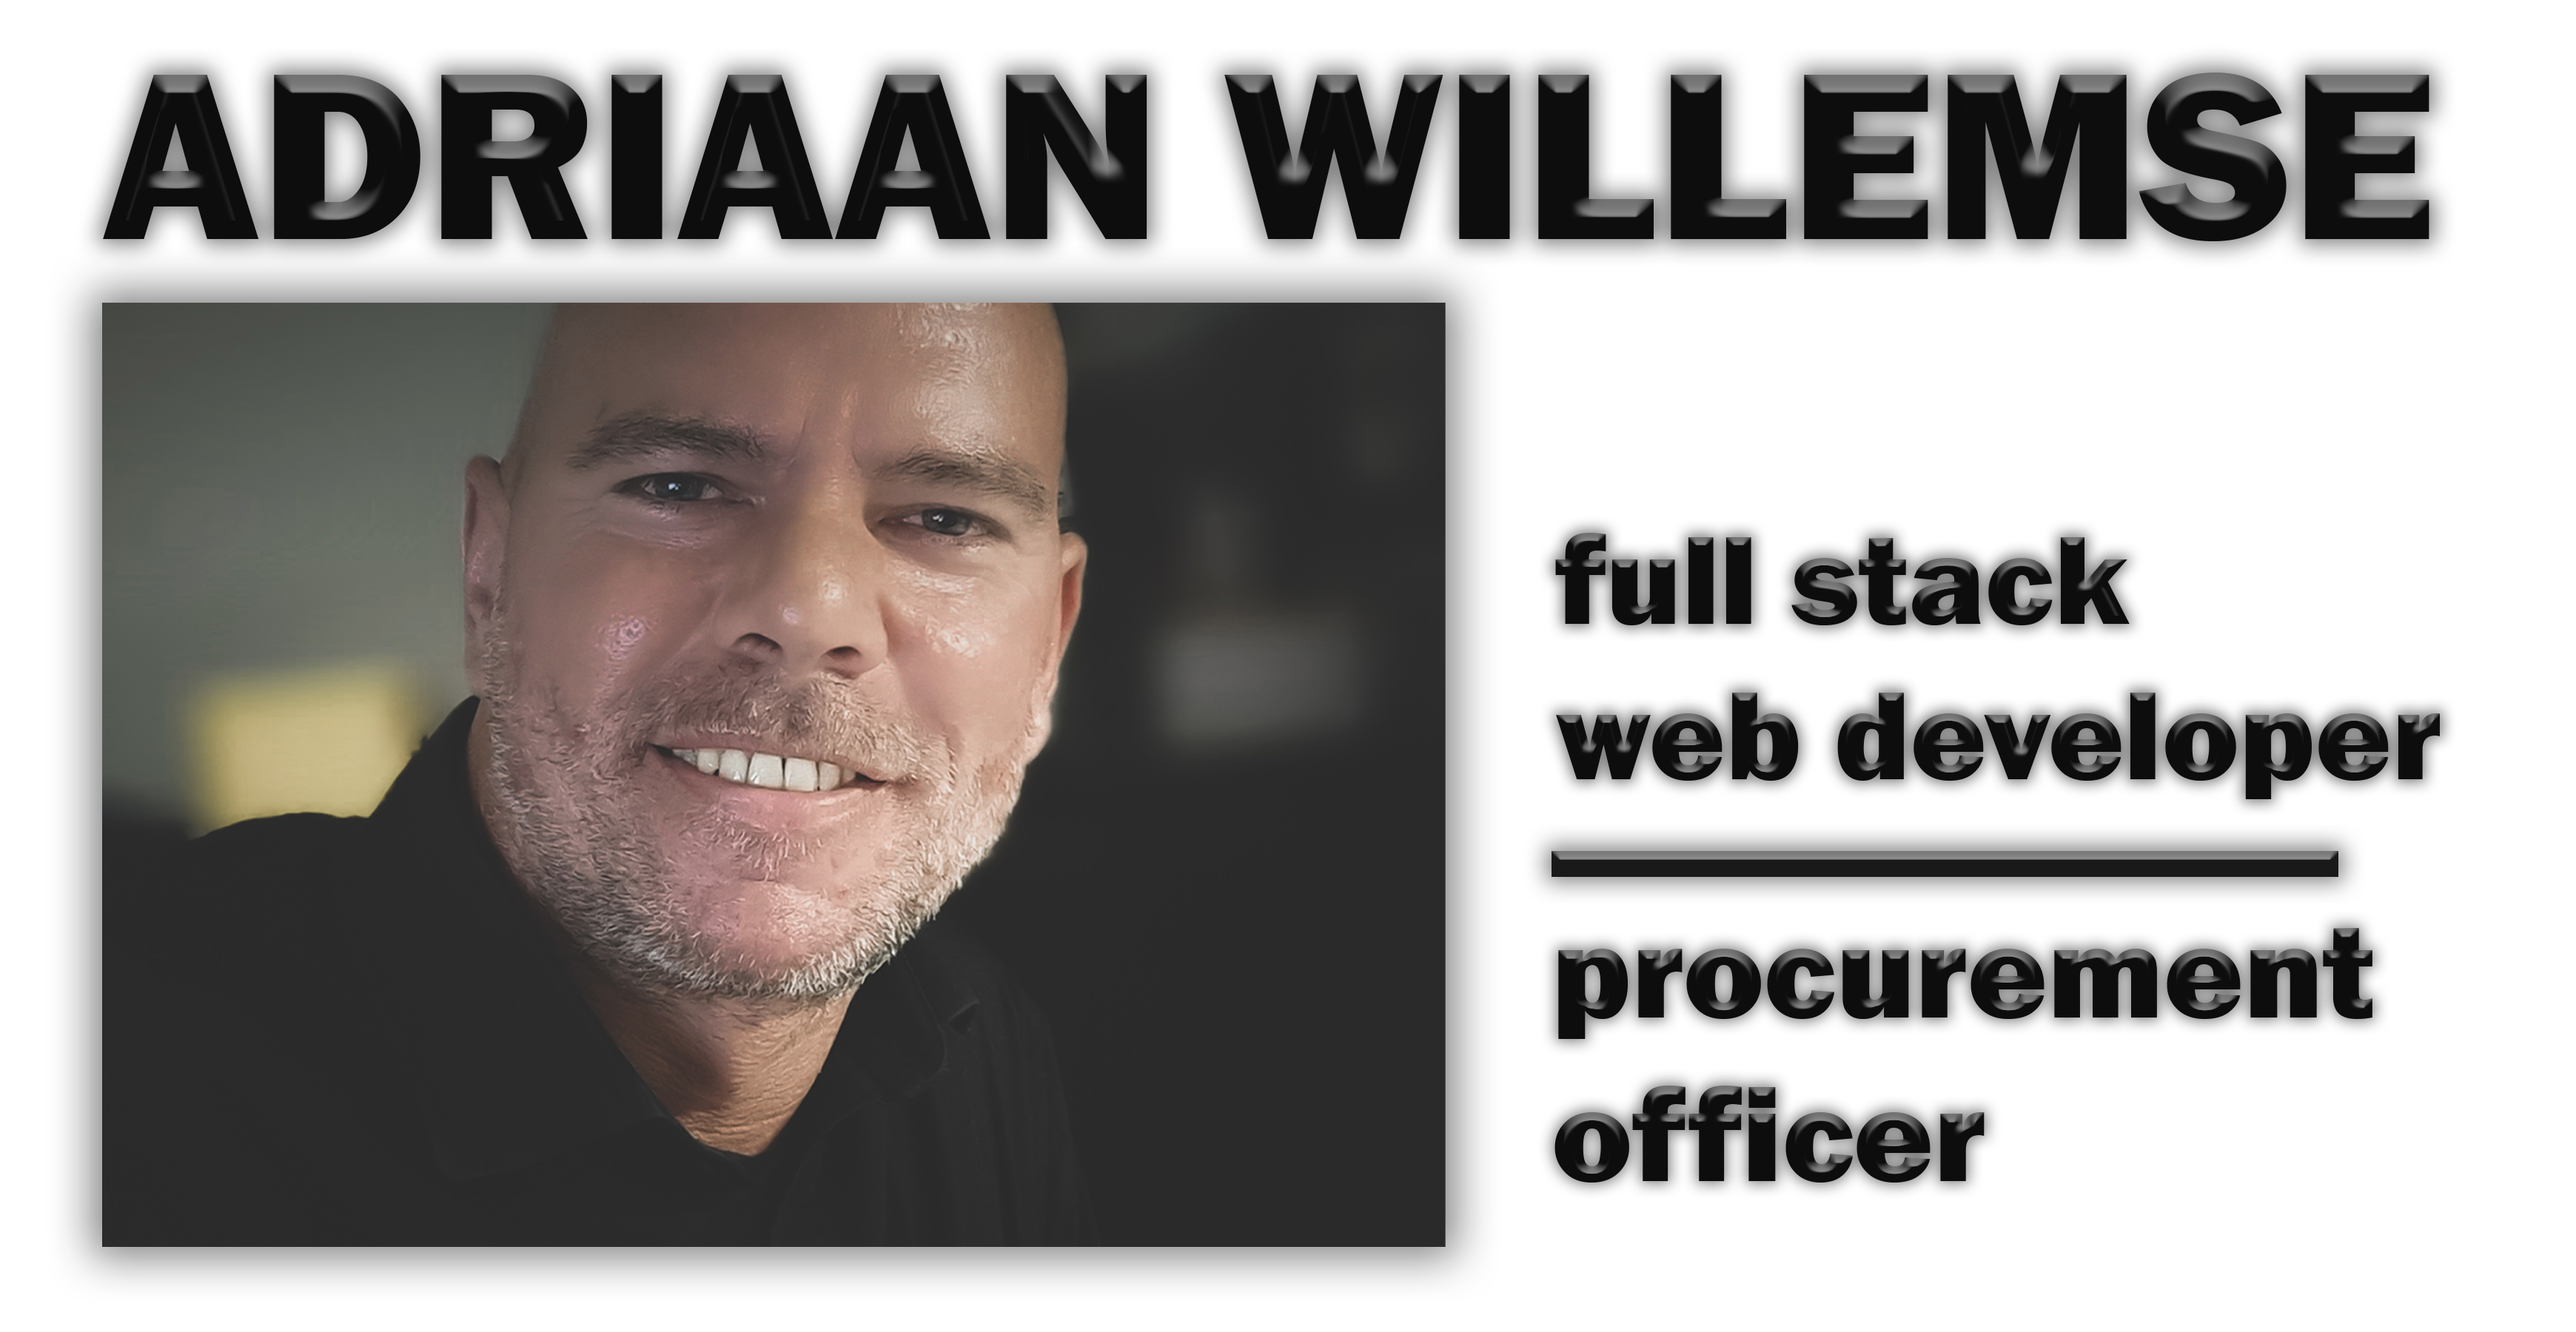
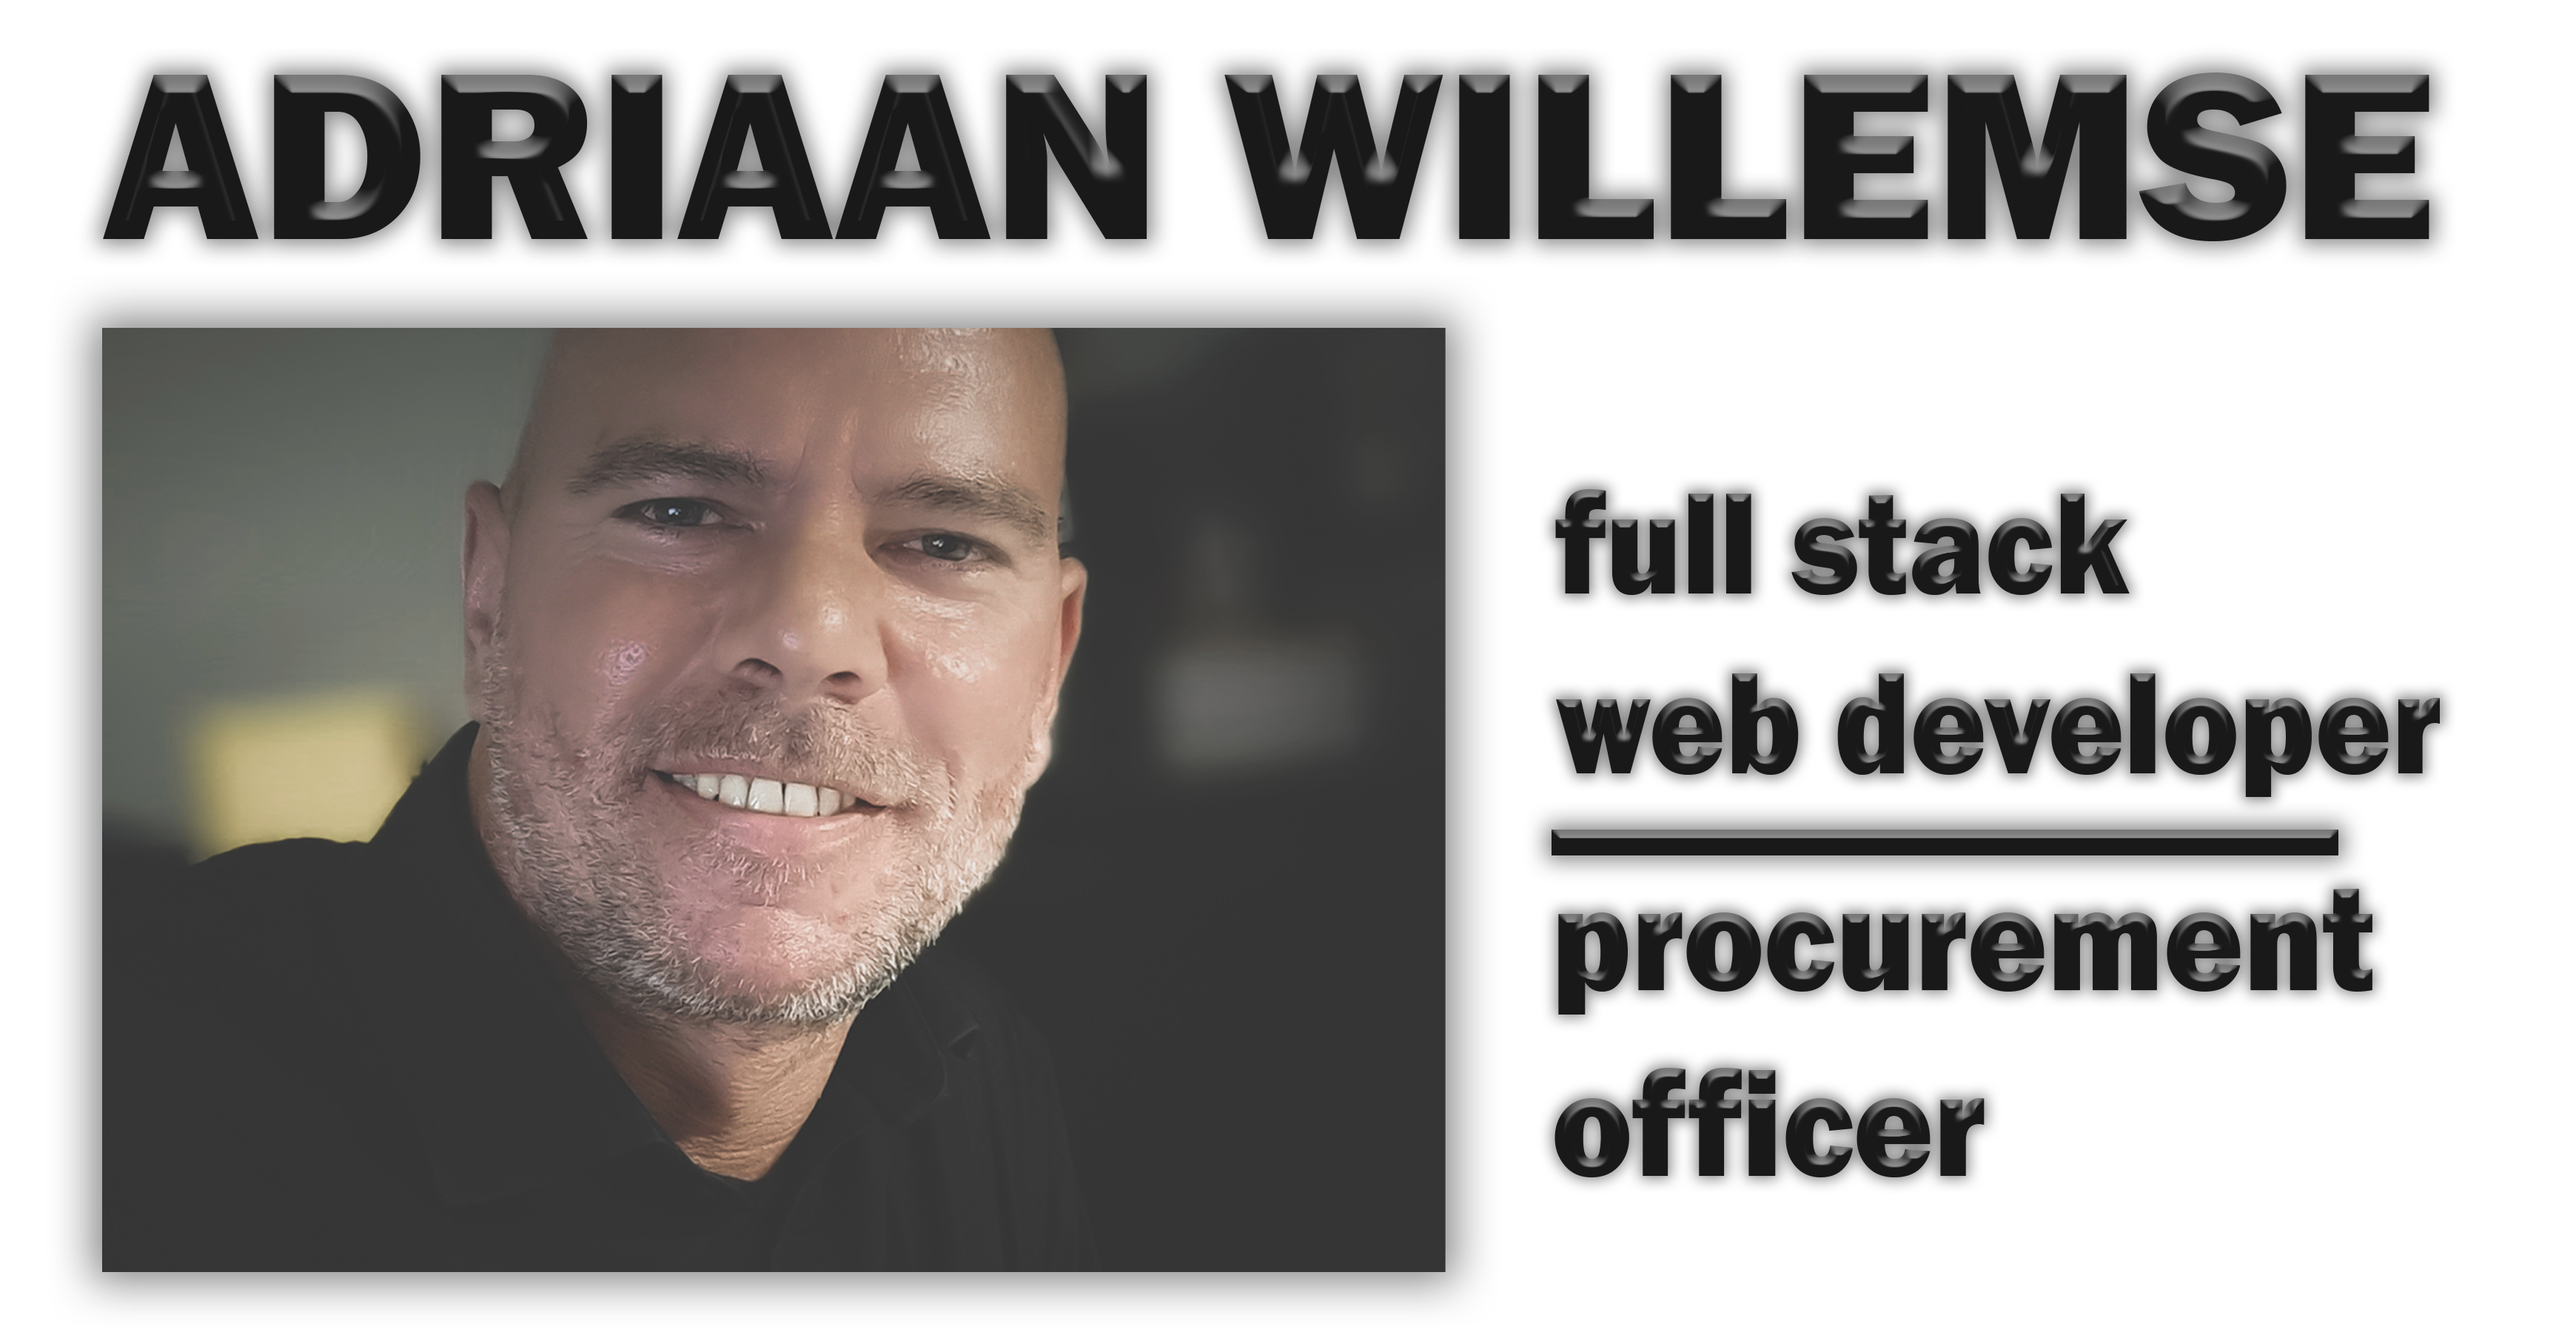
Add files via upload

diff --git a/styles.css b/styles.css
@@ -408,7 +408,7 @@ hr {
         margin-left: 28%;
         margin-top: -12%;
         position: absolute;
-        width: 10%;
+        width: 12%;
     }
 
     .div-profile {
